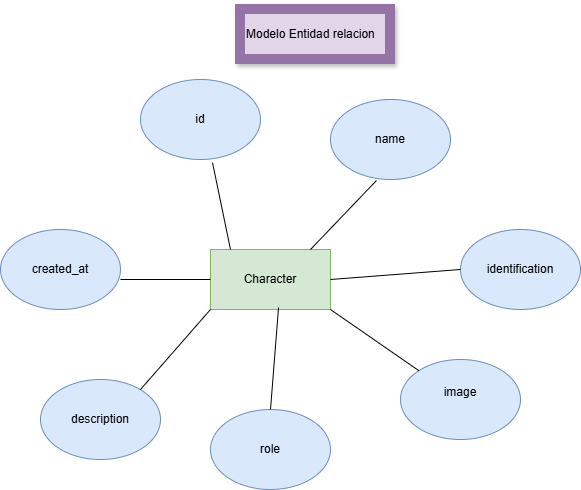
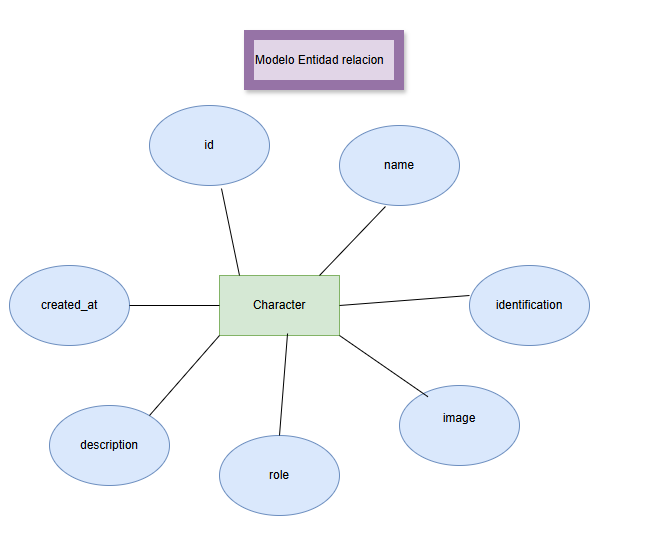
Arreglo diagramas

diff --git a/frontend-character/frontend/src/components/CharacterModal.jsx b/frontend-character/frontend/src/components/CharacterModal.jsx
@@ -48,7 +48,7 @@ function CharacterModal({ character, onClose }) {
             {/* BODY */}
             <div className="modal-body">
 
-              {/* 🧠 MODO VISUALIZACIÓN */}
+              {/*MODO VISUALIZACIÓN */}
               {!isEditing && (
                 <div className="text-center">
                   <img
@@ -63,7 +63,7 @@ function CharacterModal({ character, onClose }) {
                 </div>
               )}
 
-              {/* ✏️ MODO EDICIÓN */}
+              {/*MODO EDICIÓN */}
               {isEditing && (
                 <>
                   <input
@@ -106,7 +106,7 @@ function CharacterModal({ character, onClose }) {
 
             </div>
 
-            {/* FOOTER */}
+            {/*FOOTER */}
             <div className="modal-footer">
 
               {!isEditing ? (
@@ -156,7 +156,7 @@ function CharacterModal({ character, onClose }) {
         </div>
       </div>
 
-      {/* Fondo oscuro detrás */}
+      {/*Fondo oscuro detrás */}
       <div className="modal-backdrop fade show"></div>
     </>
   );

diff --git a/frontend-character/frontend/src/components/CharacterList.jsx b/frontend-character/frontend/src/components/CharacterList.jsx
@@ -14,7 +14,7 @@ function CharacterList() {
   return (
     <div className="container mt-4">
 
-      {/* 🔽 ORDENAMIENTO */}
+      {/*ORDENAMIENTO */}
       <div className="row mb-3">
         <div className="col-md-4">
           <select
@@ -27,7 +27,7 @@ function CharacterList() {
         </div>
       </div>
 
-      {/* 🧱 GRID DE CARDS */}
+      {/*GRID DE CARDS */}
       <div className="row">
         {characters.map((c) => (
           <div className="col-md-4 mb-4" key={c.id}>
@@ -55,7 +55,7 @@ function CharacterList() {
         ))}
       </div>
 
-      {/* 🪟 MODAL */}
+      {/* MODAL */}
       {selected && (
         <CharacterModal
           character={selected}

diff --git a/characters-api/src/main/java/com/serie/characters_api/CharactersApiApplication.java b/characters-api/src/main/java/com/serie/characters_api/CharactersApiApplication.java
@@ -2,12 +2,14 @@ package com.serie.characters_api;
 
 import org.springframework.boot.SpringApplication;
 import org.springframework.boot.autoconfigure.SpringBootApplication;
+import org.springframework.cache.annotation.EnableCaching;
 
 @SpringBootApplication
+@EnableCaching
 public class CharactersApiApplication {
 
-	public static void main(String[] args) {
-		SpringApplication.run(CharactersApiApplication.class, args);
-	}
+    public static void main(String[] args) {
+        SpringApplication.run(CharactersApiApplication.class, args);
+    }
 
 }

diff --git a/characters-api/src/main/java/com/serie/characters_api/model/Character.java b/characters-api/src/main/java/com/serie/characters_api/model/Character.java
@@ -83,5 +83,4 @@ public class Character {
         this.createdAt = createdAt;
     }
 
-    // getters y setters
 }